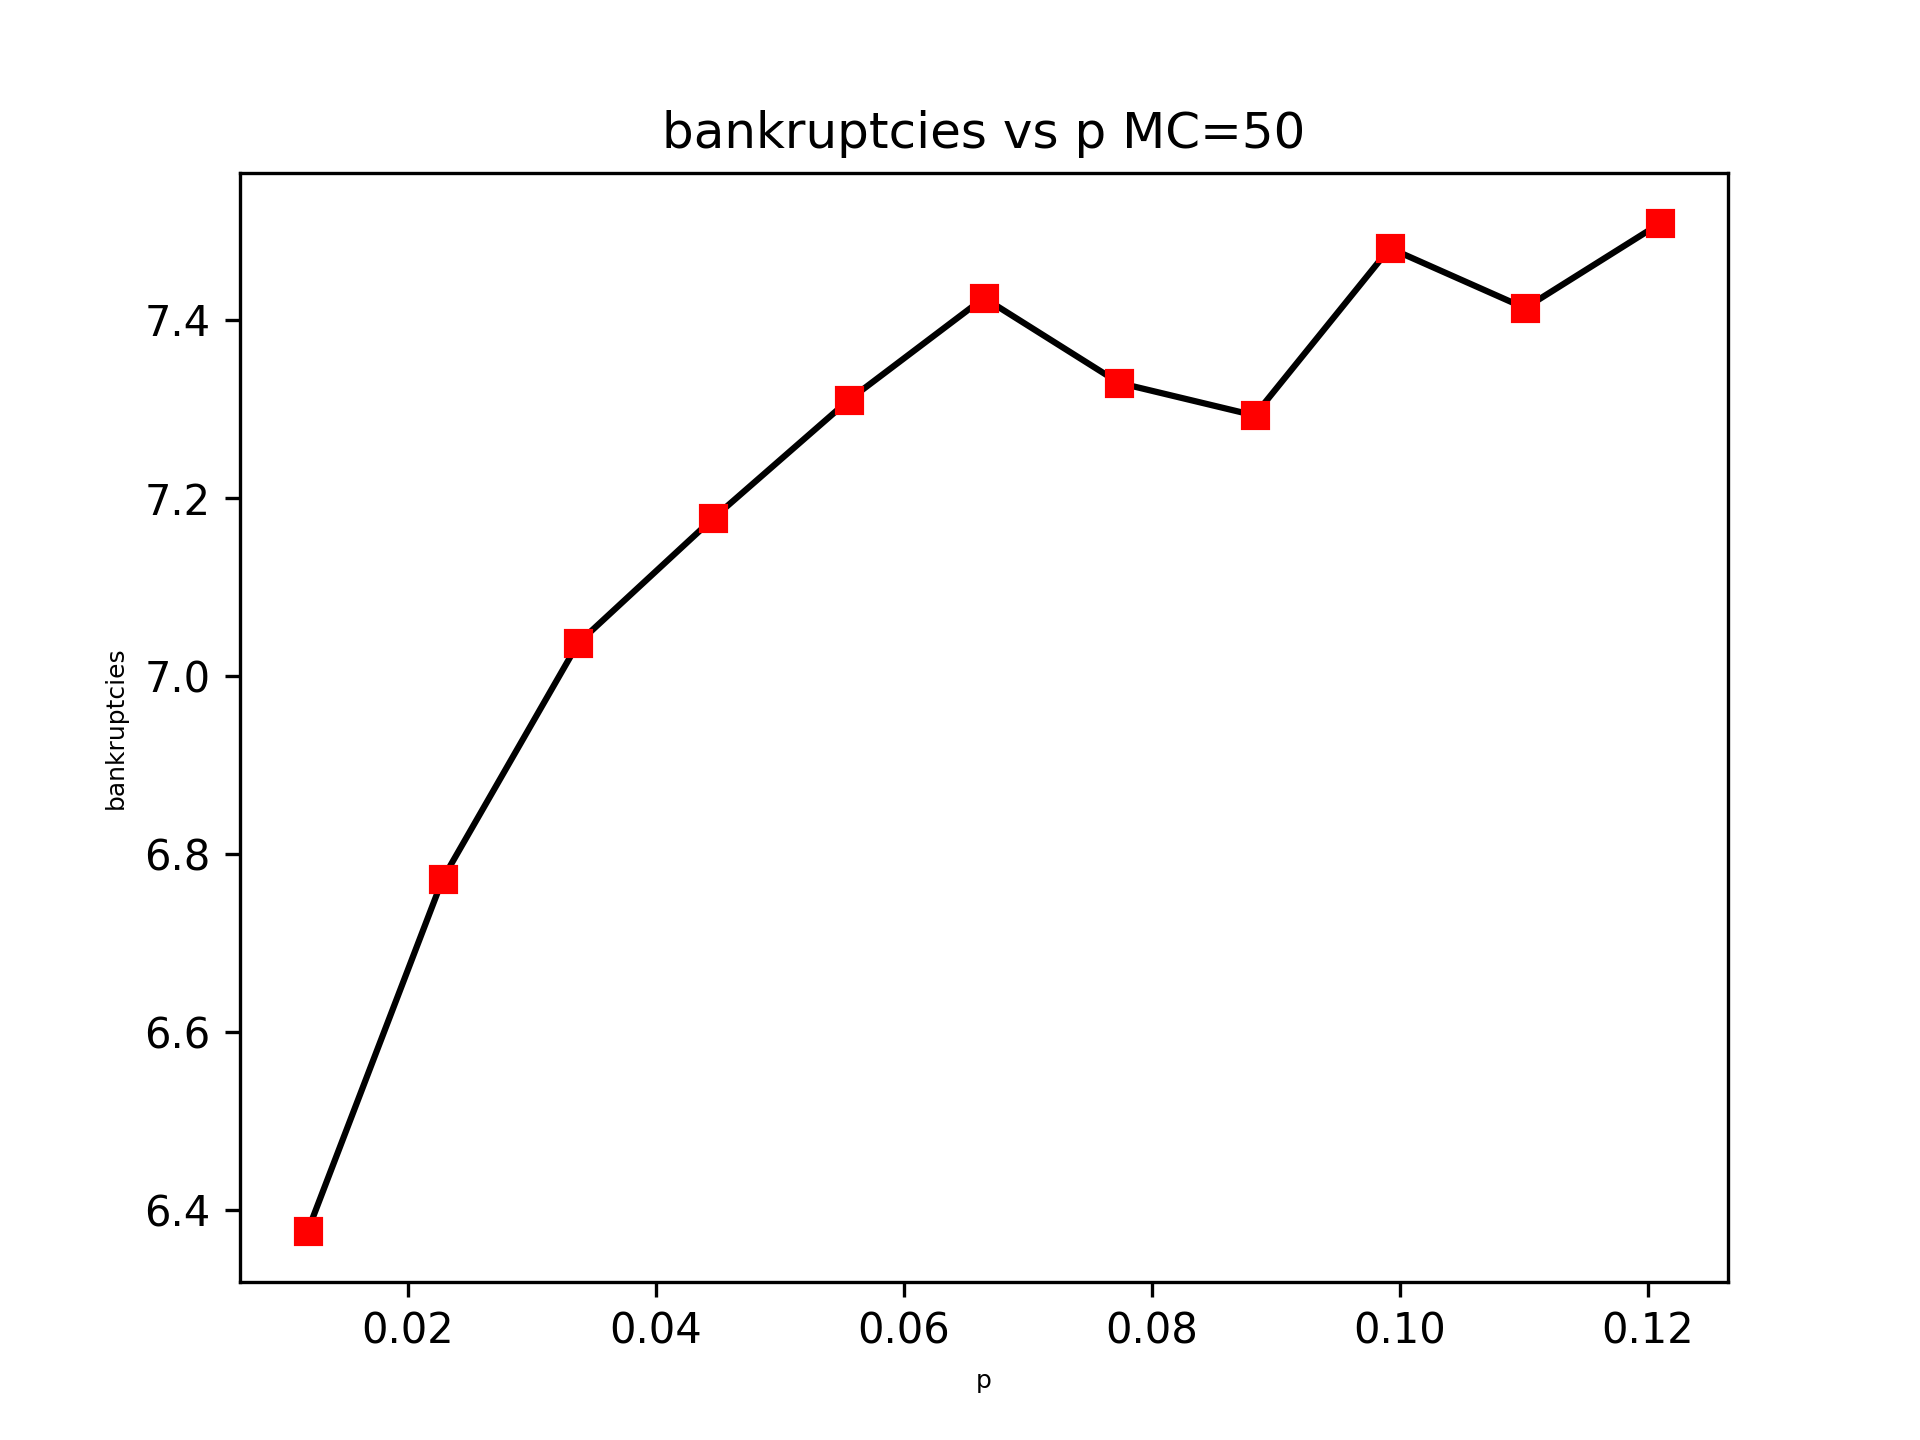
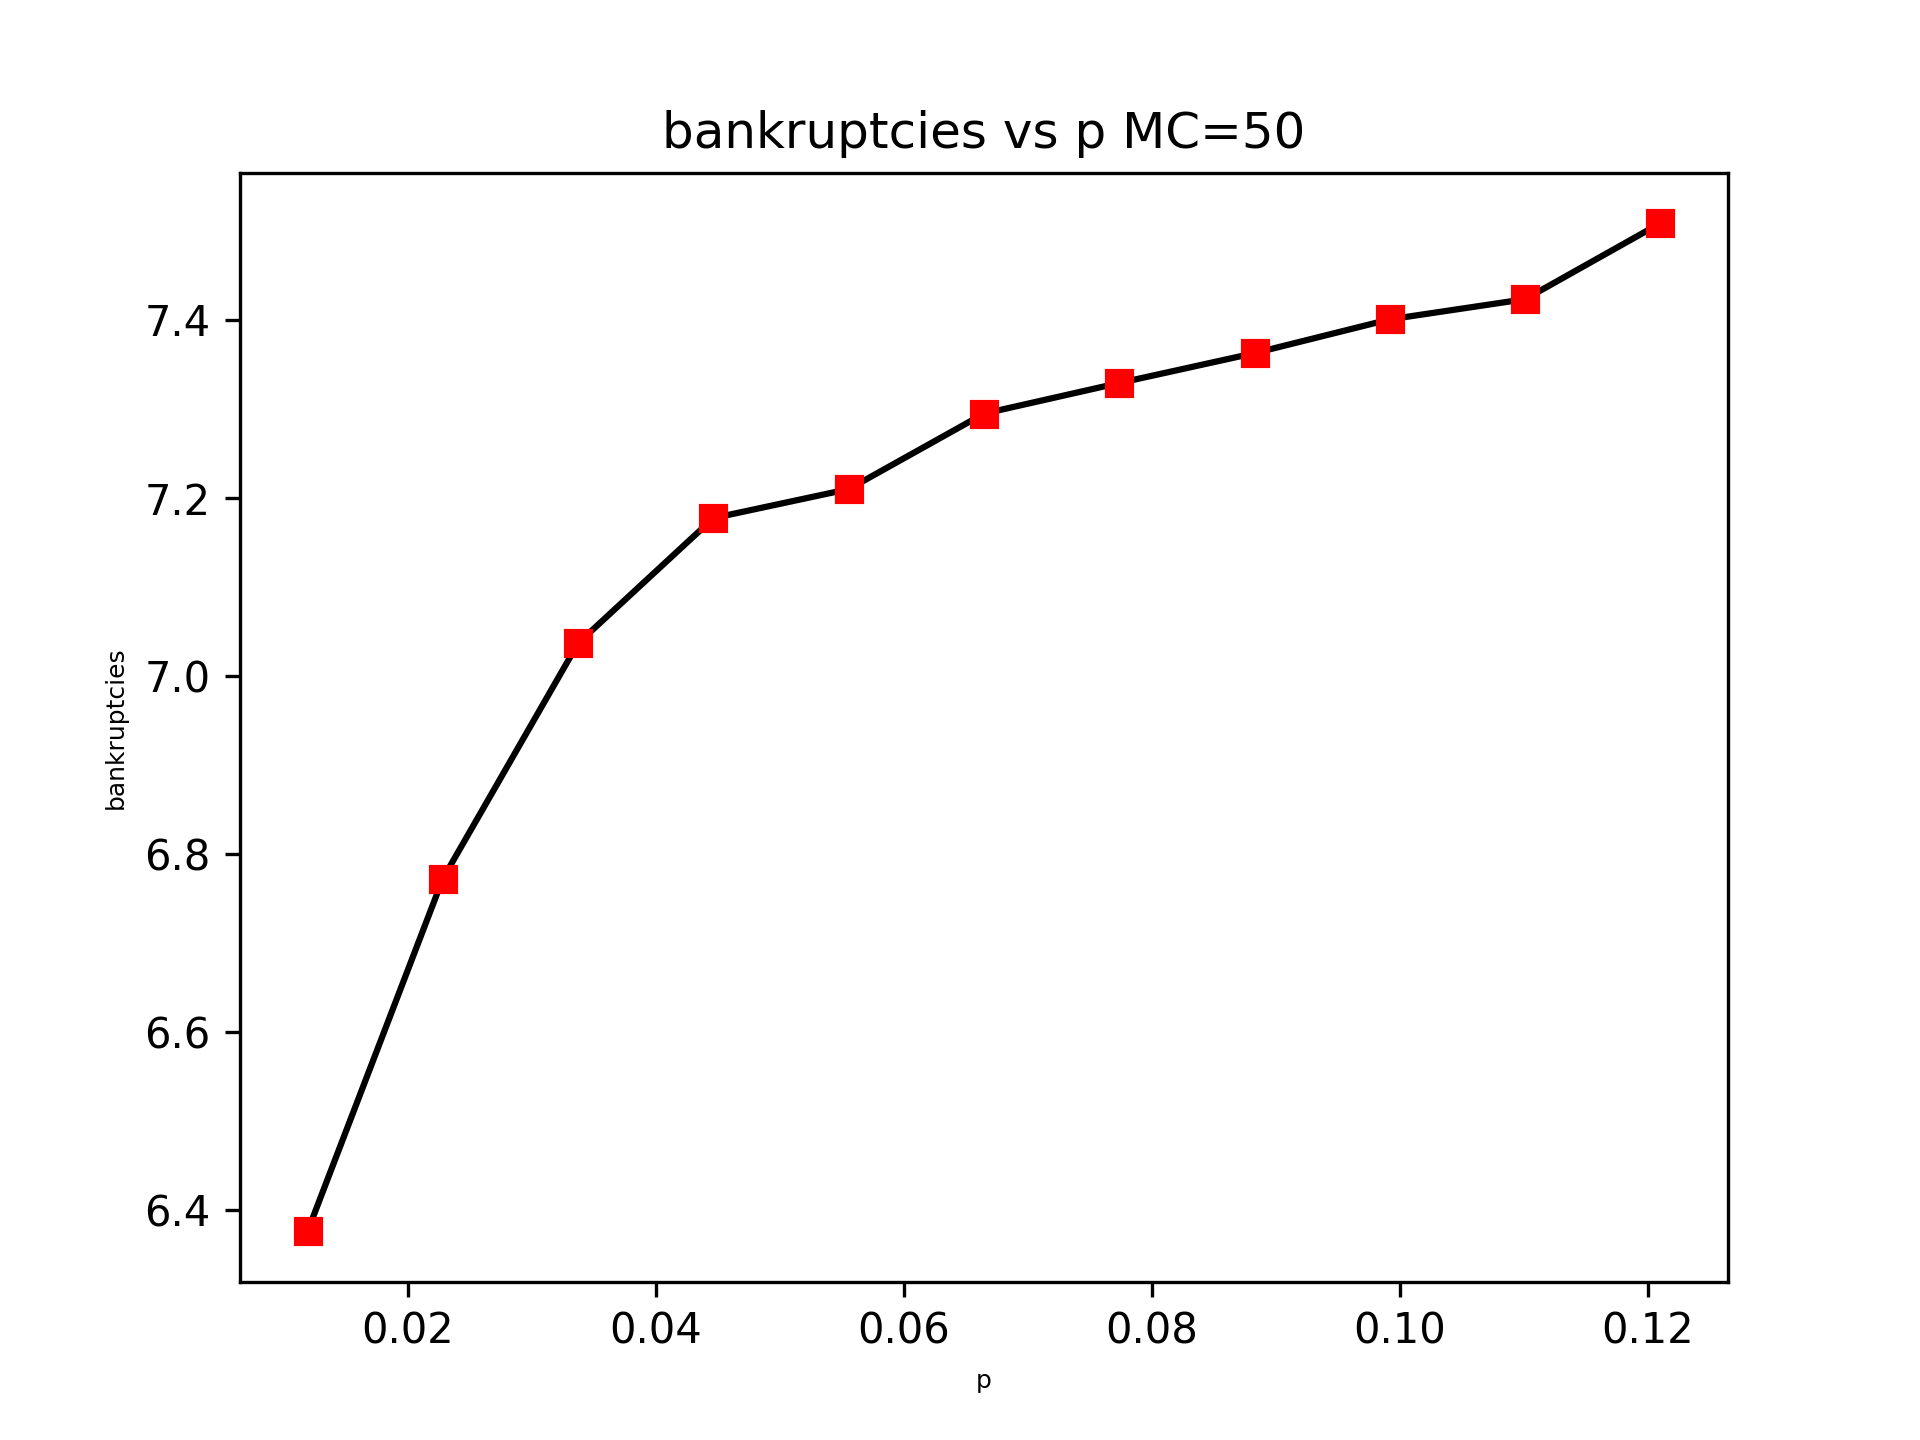
presentation 1

diff --git a/slides/content.tex b/slides/content.tex
@@ -67,7 +67,7 @@
 \begin{frame}{Abstract: ABM, Interbank Market, and Contagion}
   \begin{itemize}
     \item We use \textbf{Agent-Based Models} to study systemic risk in interbank credit networks.
-    \item The dynamics are driven by two key parameters: the \textbf{probability of attachment} $p$ (exogenous) and the \textbf{interest rate} $r$ (endogenous).
+    \item The dynamics are driven by two key parameters: the \textbf{probability of attachment} $p$ of Erdős–Rényi graphs as interbank connections generator (exogenous) and the \textbf{interest rate} $r$ (endogenous).
     \item As $p$ increases, the network becomes more connected, forming a giant component. Interest rates decline due to greater competition and reduced market power.
     \item However, higher connectivity also raises the probability of borrower bankruptcy. Excessively low interest rates, maintained for too long, can be \textbf{detrimental to the stability of the system}.
   \end{itemize}
@@ -377,110 +377,198 @@ The Erd\H{o}s--R\'enyi model does not attempt to replicate the entire interbank 
 \section{Results}\label{sec:7}
 %======================================================================
 
-\begin{frame}{Bankruptcies exposed by the model}
+% \begin{frame}{Bankruptcies exposed by the model}
+%   \begin{columns}[T]
+%     \begin{column}{0.9\textwidth}
+%       \centering
+%       \begin{tikzpicture}
+%         \begin{axis}[
+%           width=0.9\textwidth,
+%           height=0.60\textheight,
+%           ylabel={Rationing + Repayment},
+%           ylabel style={font=\sffamily\tiny, yshift=-20pt},
+%           ymin=0, ymax=8,
+%           xmin=0, xmax=0.12,
+%           xlabel={$p$},
+%           xlabel style={font=\sffamily\tiny},
+%           every axis x label/.style={at={(ticklabel* cs:0.5)}, yshift=-12pt, font=\sffamily\tiny},
+%   every axis y label/.style={at={(axis description cs:-0.08,0.5)}, rotate=90, font=\sffamily\tiny},
+%           xticklabel style={/pgf/number format/fixed, /pgf/number format/precision=2, font=\sffamily\tiny},
+%           yticklabel style={font=\sffamily\tiny},
+%           font=\sffamily\tiny,
+%           tick style={black, line width=0.4pt},
+%           major tick length=3pt,
+%           axis line style={black},
+%           ticklabel style={font=\sffamily\tiny},
+%         ]
+%           \addplot[only marks, mark=square*, red] coordinates {
+%             (0.00001,6.7931)            (0.01100,6.1768)            (0.02200,6.4994)            (0.03300,6.5926)            (0.04400,6.6995)            (0.05500,6.7234)            (0.06500,6.7342)            (0.07600,6.7453)            (0.08700,6.8621)            (0.09800,6.7748)            (0.10900,6.7942)            (0.12000,6.8065)
+%           };
+%           \addplot[black, thick]coordinates {
+%             (0.00001,6.7931)            (0.01100,6.1768)            (0.02200,6.4994)            (0.03300,6.5926)            (0.04400,6.6995)            (0.05500,6.7234)            (0.06500,6.7342)            (0.07600,6.7453)            (0.08700,6.8621)            (0.09800,6.7748)            (0.10900,6.7942)            (0.12000,6.8065)
+%           };
+%           \addplot[only marks, mark=o, red] coordinates {
+%             (0.00001,0.00)            (0.01100,0.24)            (0.02200,0.45)            (0.03300,0.57)            (0.04400,0.67)            (0.05500,0.73)            (0.06500,0.78)            (0.07600,0.80)            (0.08700,0.84)            (0.09800,0.84)            (0.10900,0.84)            (0.12000,0.86)
+%           };
+%           \addplot[black, thick]coordinates {
+%             (0.00001,0.00)            (0.01100,0.24)            (0.02200,0.45)            (0.03300,0.57)            (0.04400,0.67)            (0.05500,0.73)            (0.06500,0.78)            (0.07600,0.80)            (0.08700,0.84)            (0.09800,0.84)            (0.10900,0.84)            (0.12000,0.86)
+%           };
+%         \end{axis}
+%         \begin{axis}[
+%           width=0.9\textwidth,
+%           height=0.60\textheight,
+%           ylabel={Contagion},
+%           ylabel style={font=\tiny},
+%           ymin=0, ymax=0.4,
+%           xmin=0, xmax=0.12,
+%           axis y line*=right, axis x line=none,
+%           ylabel near ticks,
+%           yticklabel style={/pgf/number format/fixed, /pgf/number format/precision=2, font=\tiny},
+%           font=\tiny,
+%           ticklabel style={font=\tiny},
+%         ]
+%           \addplot[only marks, mark=*, red] coordinates {
+%             (0.00001,0.0000)            (0.01100,0.0128)            (0.02200,0.0313)            (0.03300,0.0443)            (0.04400,0.0573)            (0.05500,0.0634)            (0.06500,0.0700)            (0.07600,0.0750)            (0.08700,0.0811)            (0.09800,0.0836)            (0.10900,0.0802)            (0.12000,0.0824)
+%           };
+%           \addplot[black, thick]coordinates {
+%             (0.00001,0.0000)            (0.01100,0.0128)            (0.02200,0.0313)            (0.03300,0.0443)            (0.04400,0.0573)            (0.05500,0.0634)            (0.06500,0.0700)            (0.07600,0.0750)            (0.08700,0.0811)            (0.09800,0.0836)            (0.10900,0.0802)            (0.12000,0.0824)
+%           };
+%         \end{axis}
+%         \end{tikzpicture}
+%     \end{column}
+%     \begin{column}{0.28\textwidth}
+%       \centering
+%       \tiny
+%       \renewcommand{\arraystretch}{0.85}\setlength{\tabcolsep}{3pt}
+%       \textcolor{red}{$\blacksquare$} Rationing
+%       \textcolor{red}{$\bullet$} Contagion\par
+%       \textcolor{red}{$\circ$} Repayment fail.\par
+%       \vspace{0.15cm}
+%       \begin{tabular}{lccc}
+%         \toprule
+%         $p$ & Rat. & Cont. & Fail. \\
+%         \midrule
+%         0.001 & 6.79 & 0.00 & 0.00 \\
+%         0.011 & 6.18 & 0.01 & 0.24 \\
+%         0.022 & 6.50 & 0.03 & 0.45 \\
+%         0.033 & 6.59 & 0.04 & 0.57 \\
+%         0.044 & 6.70 & 0.06 & 0.67 \\
+%         \textbf{0.055} & \textbf{6.72} & \textbf{0.06} & \textbf{0.73} \\
+%         0.065 & 6.73 & 0.07 & 0.78 \\
+%         0.076 & 6.75 & 0.07 & 0.80 \\
+%         0.087 & 6.86 & 0.08 & 0.84 \\
+%         0.098 & 6.77 & 0.08 & 0.84 \\
+%         0.109 & 6.79 & 0.08 & 0.84 \\
+%         0.120 & 6.81 & 0.08 & 0.86 \\
+%         \bottomrule
+%       \end{tabular}
+
+
+%     \end{column}
+
+%   \end{columns}
+%   \vspace{0.05cm}
+% {\tiny
+% \renewcommand{\baselinestretch}{0.85}\selectfont
+% As $p$ increases, the channel of failure shifts from rationing (few lenders available) to repayment failure (low rates, more clients served). % This compositional change illustrates how excessive connectivity and low interest rates jointly increase systemic fragility.\\[-0.4em]
+
+
+% \setlength{\tabcolsep}{3pt}
+% \renewcommand{\arraystretch}{0.85}
+% Initial conditions for each bank:
+% \begin{tabular}{l|l}
+%   \multicolumn{1}{c|}{\textbf{Assets}} & \multicolumn{1}{c}{\textbf{Liabilities}} \\ \midrule
+%   $C^i_0= 5-0.18 = 4.82$ & $D^i_0= 9$\\
+%   $L^i_0= 5$ & $E^i_0= 1$ \\
+%   $R^i_0 = 0.18$ &
+% \end{tabular}
+% }
+% \end{frame}
+
+
+\begin{frame}{Bankruptcies}
+ 
+
   \begin{columns}[T]
-    \begin{column}{0.9\textwidth}
-      \centering
-      \begin{tikzpicture}
-        \begin{axis}[
-          width=0.9\textwidth,
-          height=0.60\textheight,
-          ylabel={Rationing + Repayment},
-          ylabel style={font=\sffamily\tiny, yshift=-20pt},
-          ymin=0, ymax=8,
-          xmin=0, xmax=0.12,
-          xlabel={$p$},
-          xlabel style={font=\sffamily\tiny},
-          every axis x label/.style={at={(ticklabel* cs:0.5)}, yshift=-12pt, font=\sffamily\tiny},
-  every axis y label/.style={at={(axis description cs:-0.08,0.5)}, rotate=90, font=\sffamily\tiny},
-          xticklabel style={/pgf/number format/fixed, /pgf/number format/precision=2, font=\sffamily\tiny},
-          yticklabel style={font=\sffamily\tiny},
-          font=\sffamily\tiny,
-          tick style={black, line width=0.4pt},
-          major tick length=3pt,
-          axis line style={black},
-          ticklabel style={font=\sffamily\tiny},
-        ]
-          \addplot[only marks, mark=square*, red] coordinates {
-            (0.00001,6.7931)            (0.01100,6.1768)            (0.02200,6.4994)            (0.03300,6.5926)            (0.04400,6.6995)            (0.05500,6.7234)            (0.06500,6.7342)            (0.07600,6.7453)            (0.08700,6.8621)            (0.09800,6.7748)            (0.10900,6.7942)            (0.12000,6.8065)
-          };
-          \addplot[black, thick]coordinates {
-            (0.00001,6.7931)            (0.01100,6.1768)            (0.02200,6.4994)            (0.03300,6.5926)            (0.04400,6.6995)            (0.05500,6.7234)            (0.06500,6.7342)            (0.07600,6.7453)            (0.08700,6.8621)            (0.09800,6.7748)            (0.10900,6.7942)            (0.12000,6.8065)
-          };
-          \addplot[only marks, mark=o, red] coordinates {
-            (0.00001,0.00)            (0.01100,0.24)            (0.02200,0.45)            (0.03300,0.57)            (0.04400,0.67)            (0.05500,0.73)            (0.06500,0.78)            (0.07600,0.80)            (0.08700,0.84)            (0.09800,0.84)            (0.10900,0.84)            (0.12000,0.86)
-          };
-          \addplot[black, thick]coordinates {
-            (0.00001,0.00)            (0.01100,0.24)            (0.02200,0.45)            (0.03300,0.57)            (0.04400,0.67)            (0.05500,0.73)            (0.06500,0.78)            (0.07600,0.80)            (0.08700,0.84)            (0.09800,0.84)            (0.10900,0.84)            (0.12000,0.86)
-          };
-        \end{axis}
-        \begin{axis}[
-          width=0.9\textwidth,
-          height=0.60\textheight,
-          ylabel={Contagion},
-          ylabel style={font=\tiny},
-          ymin=0, ymax=0.4,
-          xmin=0, xmax=0.12,
-          axis y line*=right, axis x line=none,
-          ylabel near ticks,
-          yticklabel style={/pgf/number format/fixed, /pgf/number format/precision=2, font=\tiny},
-          font=\tiny,
-          ticklabel style={font=\tiny},
-        ]
-          \addplot[only marks, mark=*, red] coordinates {
-            (0.00001,0.0000)            (0.01100,0.0128)            (0.02200,0.0313)            (0.03300,0.0443)            (0.04400,0.0573)            (0.05500,0.0634)            (0.06500,0.0700)            (0.07600,0.0750)            (0.08700,0.0811)            (0.09800,0.0836)            (0.10900,0.0802)            (0.12000,0.0824)
-          };
-          \addplot[black, thick]coordinates {
-            (0.00001,0.0000)            (0.01100,0.0128)            (0.02200,0.0313)            (0.03300,0.0443)            (0.04400,0.0573)            (0.05500,0.0634)            (0.06500,0.0700)            (0.07600,0.0750)            (0.08700,0.0811)            (0.09800,0.0836)            (0.10900,0.0802)            (0.12000,0.0824)
-          };
-        \end{axis}
-        \end{tikzpicture}
+    \begin{column}{0.75\textwidth}
+      \begin{figure}
+        \centering
+        \includegraphics[width=\textwidth, trim=0 0 0 38, clip]{bankruptcies.png}
+      \end{figure}
     \end{column}
-    \begin{column}{0.28\textwidth}
+    \begin{column}{0.23\textwidth}
       \centering
-      \tiny
+      \tiny\renewcommand{\arraystretch}{0.85}\setlength{\tabcolsep}{3pt}
+      \begin{tabular}{lr}
+        \toprule
+        p & bankruptcies \\
+        \midrule
+        0.012 & 6.3762 \\
+        0.023 & 6.7724 \\
+        0.034 & 7.0369 \\
+        0.045 & 7.1774 \\
+        0.056 & 7.2100 \\
+        0.066 & 7.2948 \\
+        0.077 & 7.3292 \\
+        0.088 & 7.3628 \\
+        0.099 & 7.4007 \\
+        0.110 & 7.4234 \\
+        0.121 & 7.5088 \\
+        \bottomrule
+      \end{tabular}
+
+      \vspace{0.5cm}
+      Monte Carlo simulations with $\mathcal{MC} = 50$ runs. $N=50$ banks, $T=1000$ periods, and $p$ varying from 0 to 0.12 in increments of 0.01.
+
+    \end{column}
+  \end{columns}
+  \tiny \setlength{\tabcolsep}{3pt}
+  \renewcommand{\arraystretch}{0.85}
+  Initial conditions for each bank:
+  \begin{tabular}{l|l}
+    \multicolumn{1}{c|}{\textbf{Assets}} & \multicolumn{1}{c}{\textbf{Liabilities}} \\ \midrule
+    $C^i_0= 5-0.18 = 4.82$ & $D^i_0= 9$\\
+    $L^i_0= 5$ & $E^i_0= 1$ \\
+    $R^i_0 = 0.18$ &
+  \end{tabular}
+\end{frame}
+
+
+
+
+\begin{frame}{Bankruptcies decomposition }
+  \tiny As $p$ increases, the channel of failure shifts from rationing (few lenders available) to repayment failure (low rates, more clients served). % This compositional change illustrates how excessive connectivity and low interest rates jointly increase systemic fragility.\\[-0.4em]
+Monte Carlo simulations with $\mathcal{MC} = 50$ runs. $N=50$ banks, $T=1000$ periods, and $p$ varying from 0 to 0.12 in increments of 0.01.
+  \begin{columns}[T]
+    \begin{column}{0.75\textwidth}
+      \begin{figure}
+        \centering
+        \includegraphics[width=\textwidth, trim=0 0 0 38, clip]{bankruptcies_all.png}
+      \end{figure}
+    \end{column}
+    \begin{column}{0.23\textwidth}
       \renewcommand{\arraystretch}{0.85}\setlength{\tabcolsep}{3pt}
-      \textcolor{red}{$\blacksquare$} Rationing
-      \textcolor{red}{$\bullet$} Contagion\par
-      \textcolor{red}{$\circ$} Repayment fail.\par
-      \vspace{0.15cm}
-      \begin{tabular}{lccc}
+      \begin{tabular}{lrrr}
         \toprule
         $p$ & Rat. & Cont. & Fail. \\
         \midrule
-        0.001 & 6.79 & 0.00 & 0.00 \\
-        0.011 & 6.18 & 0.01 & 0.24 \\
-        0.022 & 6.50 & 0.03 & 0.45 \\
-        0.033 & 6.59 & 0.04 & 0.57 \\
-        0.044 & 6.70 & 0.06 & 0.67 \\
-        \textbf{0.055} & \textbf{6.72} & \textbf{0.06} & \textbf{0.73} \\
-        0.065 & 6.73 & 0.07 & 0.78 \\
-        0.076 & 6.75 & 0.07 & 0.80 \\
-        0.087 & 6.86 & 0.08 & 0.84 \\
-        0.098 & 6.77 & 0.08 & 0.84 \\
-        0.109 & 6.79 & 0.08 & 0.84 \\
-        0.120 & 6.81 & 0.08 & 0.86 \\
+        0.012 & 4.35 & 0.05 & 1.98 \\
+        0.023 & 3.43 & 0.11 & 3.23 \\
+        0.034 & 2.78 & 0.16 & 4.09 \\
+        0.045 & 2.36 & 0.21 & 4.61 \\
+        0.056 & 2.04 & 0.23 & 4.94 \\
+        0.066 & 1.85 & 0.26 & 5.18 \\
+        0.077 & 1.71 & 0.26 & 5.36 \\
+        0.088 & 1.63 & 0.27 & 5.47 \\
+        0.099 & 1.56 & 0.28 & 5.56 \\
+        0.110 & 1.51 & 0.29 & 5.62 \\
+        0.121 & 1.51 & 0.30 & 5.71 \\
         \bottomrule
       \end{tabular}
     \end{column}
   \end{columns}
-  \vspace{0.05cm}
-{\tiny
-\renewcommand{\baselinestretch}{0.85}\selectfont
-As $p$ increases, the channel of failure shifts from rationing (few lenders available) to repayment failure (low rates, more clients served). % This compositional change illustrates how excessive connectivity and low interest rates jointly increase systemic fragility.\\[-0.4em]
-Monte Carlo simulations with $\mathcal{MC} = 50$ runs. $N=50$ banks, $T=1000$ periods, and $p$ varying from 0 to 0.12 in increments of 0.01.
-
-\setlength{\tabcolsep}{3pt}
-\renewcommand{\arraystretch}{0.85}
-Initial conditions for each bank:
-\begin{tabular}{l|l}
-  \multicolumn{1}{c|}{\textbf{Assets}} & \multicolumn{1}{c}{\textbf{Liabilities}} \\ \midrule
-  $C^i_0= 5-0.18 = 4.82$ & $D^i_0= 9$\\
-  $L^i_0= 5$ & $E^i_0= 1$ \\
-  $R^i_0 = 0.18$ &
-\end{tabular}
-}
 \end{frame}
+
 
 \begin{frame}{Interest rate}
   \tiny As the probability of attachment $p$ increases, the interest rate declines. This reflects a more competitive market: borrowers can choose among more lenders, reducing lenders' market power. Lower rates benefit borrowers but also compress lender margins and increase exposure to default.

diff --git a/exp_runner.py b/exp_runner.py
@@ -323,6 +323,78 @@ class ExperimentRun:
                 tex.write("  \\end{columns}\n")
                 tex.write("\\end{frame}\n")
 
+        if all(k in array_with_data for k in ("bankruptcies", "bankruptcy_rationed", "bankruptcy_contagion")):
+            x = array_with_x_values
+            rat = [array_with_data["bankruptcy_rationed"][j][0] for j in range(len(x))]
+            cont = [array_with_data["bankruptcy_contagion"][j][0] for j in range(len(x))]
+            total = [array_with_data["bankruptcies"][j][0] for j in range(len(x))]
+            repay_fail = [total[j] - rat[j] - cont[j] for j in range(len(x))]
+
+            plt.clf()
+            fig, ax = plt.subplots()
+            ax2 = ax.twinx()
+            ax.plot(x, rat, linestyle=self.STYLE, marker="s", color="black",
+                    markerfacecolor="red", markeredgecolor="red", label="Rationing")
+            ax2.plot(x, cont, linestyle=self.STYLE, marker="o", color="darkgray",
+                     markerfacecolor="red", markeredgecolor="red", label="Contagion")
+            ax.plot(x, repay_fail, linestyle=self.STYLE, marker="o", color="lightgray",
+                    markerfacecolor="white", markeredgecolor="red", label="Repayment fail.")
+            plt.title(f"Bankruptcies by channel vs {title_x} MC={self.MC}")
+            ax.set_xlabel(title_x, fontsize=6)
+            ax.set_ylabel("Rationing + Repayment fail.", fontsize=6)
+            ax2.set_ylabel("Contagion", fontsize=6)
+            if self.XTICKS_SCALED and self.NAME_OF_X_SERIES:
+                pass
+            else:
+                ax.set_xticks(x)
+                ax.set_xticklabels(plot_x_values, rotation=270, fontsize=5)
+            lines1, labels1 = ax.get_legend_handles_labels()
+            lines2, labels2 = ax2.get_legend_handles_labels()
+            ax.legend(lines1 + lines2, labels1 + labels2, loc="best")
+            plt.savefig(f"{directory}bankruptcies_all.png", dpi=300)
+            plt.close(fig)
+
+            param_name = next(iter(self.parameters)) if isinstance(self.parameters, dict) and self.parameters else self.NAME_OF_X_SERIES
+            if not param_name:
+                param_name = "$p$"
+            param_name = str(param_name).replace("_", "\\_")
+
+            x_vals_numeric = []
+            for val in x:
+                try:
+                    x_vals_numeric.append(f"{float(val):.3f}")
+                except ValueError:
+                    x_vals_numeric.append(str(val))
+
+            with open(f"{directory}bankruptcies_all.tex", "w", encoding="utf-8") as tex:
+                tex.write("\\begin{frame}{Bankruptcies by channel}\n")
+                tex.write("  \\begin{columns}[T]\n")
+                tex.write("    \\begin{column}{0.75\\textwidth}\n")
+                tex.write("      \\begin{figure}\n")
+                tex.write("        \\centering\n")
+                tex.write("        \\includegraphics[width=\\textwidth, trim=0 0 0 38, clip]{bankruptcies_all.png}\n")
+                tex.write("      \\end{figure}\n")
+                tex.write("    \\end{column}\n")
+                tex.write("    \\begin{column}{0.23\\textwidth}\n")
+                tex.write("      \\centering\n")
+                tex.write("      \\tiny\n")
+                tex.write("      \\renewcommand{\\arraystretch}{0.85}\\setlength{\\tabcolsep}{3pt}\n")
+                tex.write("      \\textcolor{red}{$\\blacksquare$} Rationing (left)\n")
+                tex.write("      \\textcolor{red}{$\\bullet$} Contagion (right)\\par\n")
+                tex.write("      \\textcolor{red}{$\\circ$} Repayment fail. (left)\\par\n")
+                tex.write("      \\vspace{0.15cm}\n")
+                tex.write("      \\begin{tabular}{lrrr}\n")
+                tex.write("        \\toprule\n")
+                tex.write(f"        {param_name} & Rat. & Cont. & Fail. \\\\\n")
+                tex.write("        \\midrule\n")
+                for j in range(len(x)):
+                    tex.write(f"        {x_vals_numeric[j]} & {rat[j]:.2f} & {cont[j]:.2f} & {repay_fail[j]:.2f} \\\\\n")
+                tex.write("        \\bottomrule\n")
+                tex.write("      \\end{tabular}\n")
+                tex.write("    \\end{column}\n")
+                tex.write("  \\end{columns}\n")
+                tex.write("\\end{frame}\n")
+
     def load(self, directory):
         if os.path.exists(f"{directory}results.csv"):
             dataframe = pd.read_csv(f"{directory}results.csv", header=1, delimiter=";")

diff --git a/experiments/exp_min_p_0_01.py b/experiments/exp_min_p_0_01.py
@@ -22,7 +22,7 @@ class MinPRun(exp_runner.ExperimentRun):
     MC = 50
     
     ALGORITHM = LenderChange
-    OUTPUT_DIRECTORY = "/experiments/1406/exp_min_p_0_01"
+    OUTPUT_DIRECTORY = "/experiments/1106/exp_min_p_0_01"
     #OUTPUT_DIRECTORY = "/experiments/0906/exp_min_p_0_01_capacity_haircut"
 
     parameters = {